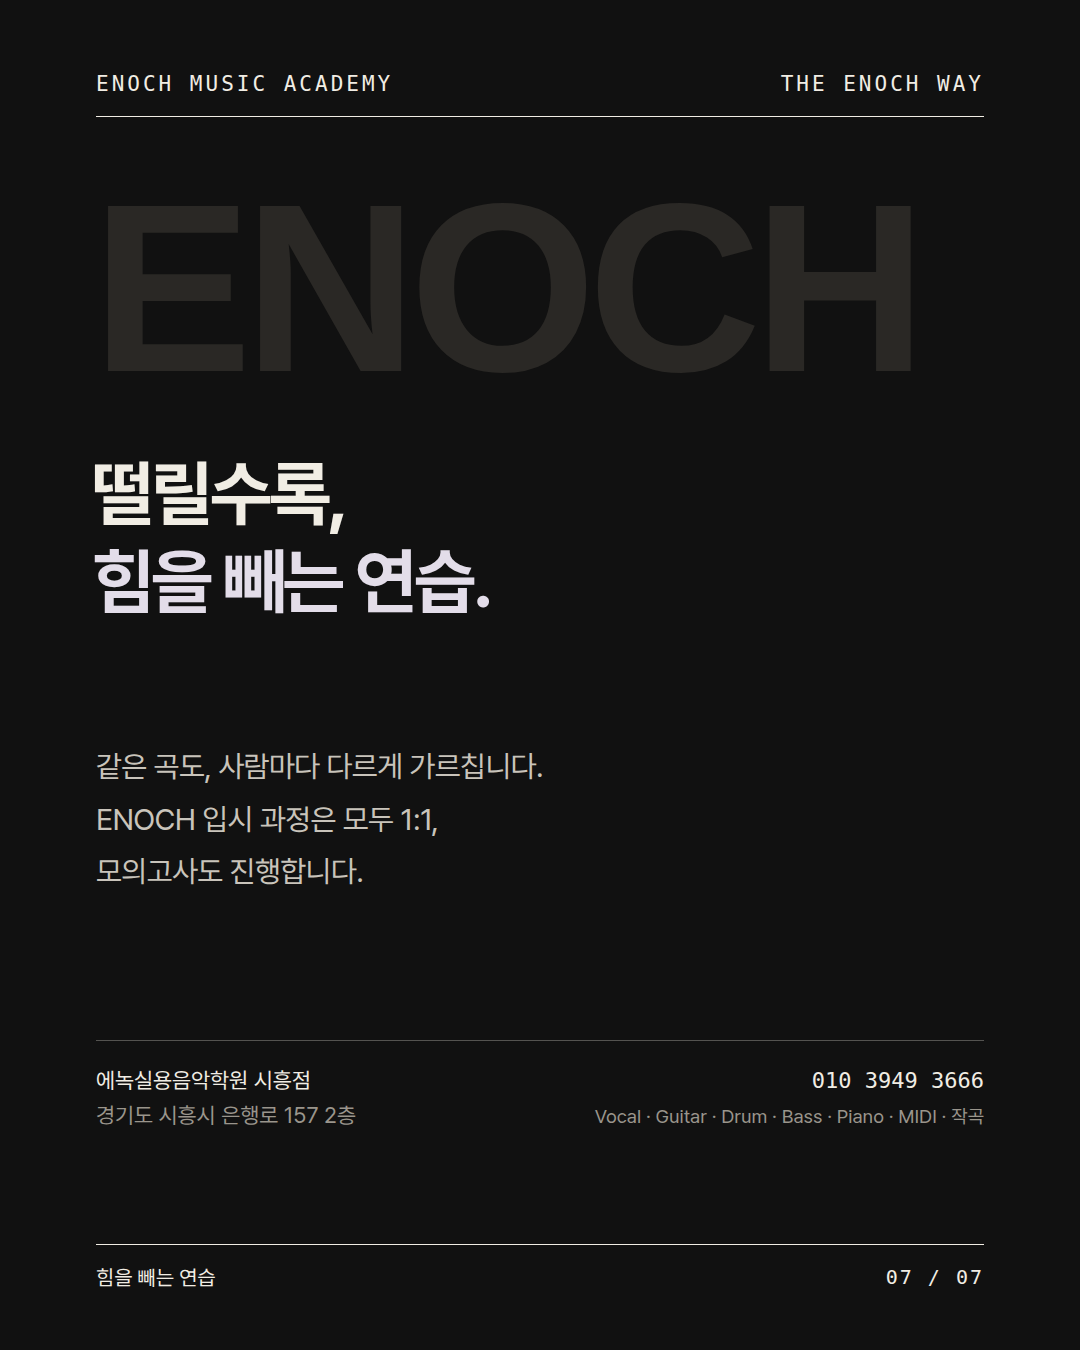
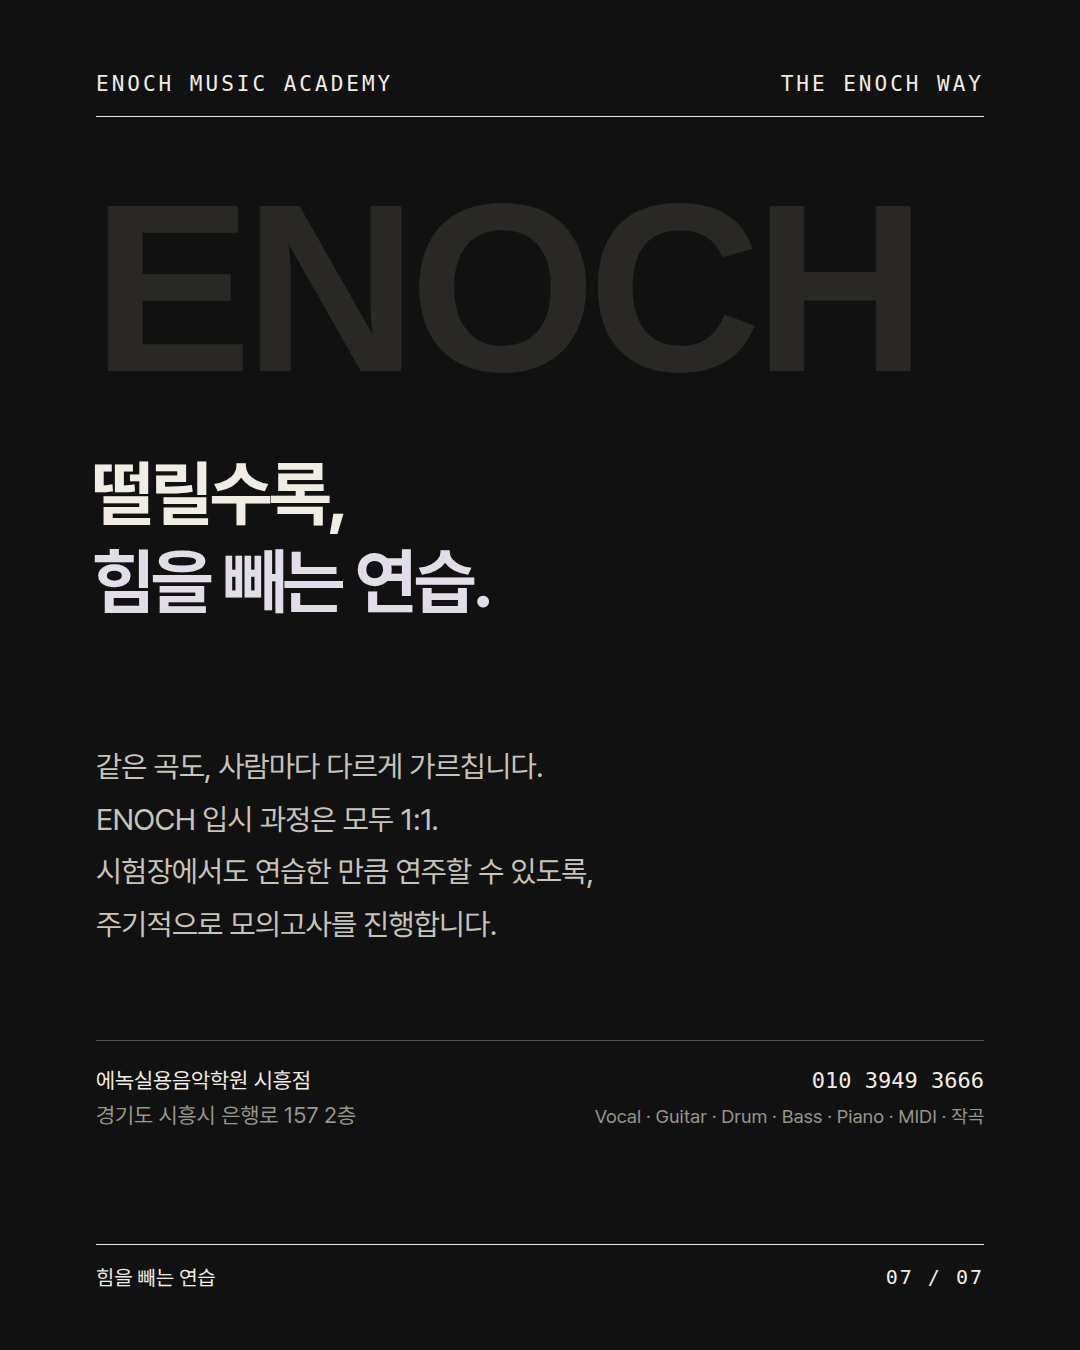
완전한 연주 편: 마무리 모의고사 문구를 목적+주기적 진행으로, CLAUDE.md 반영
Claude-Session: https://claude.ai/code/session_01HGbZvgMeYrbU7mY8bwfjyb

Changed region(s): [[0.0917, 0.6222, 0.55, 0.7156]]

diff --git a/output/책_완전한연주_1단계/deck.html b/output/책_완전한연주_1단계/deck.html
@@ -73,6 +73,6 @@
 <div class="ft"><span>힘을 빼는 연습</span><span>06 / 07</span></div><div class="src">책 사진: ENOCH 촬영 · 『완전한 연주』 케니 워너 지음, 이혜주 옮김, 현익출판.</div></section><section class="s dark" id="b7"><div class="hd"><span>ENOCH MUSIC ACADEMY</span><span>THE ENOCH WAY</span></div>
 <div style="position:absolute;left:92px;top:150px;font-family:'Helvetica Neue',Arial,sans-serif;font-weight:700;font-size:240px;letter-spacing:-8px;color:#2A2825">ENOCH</div>
 <div class="h" style="position:absolute;left:92px;top:450px">떨릴수록,<br><span style="color:var(--li)">힘을 빼는 연습.</span></div>
-<div class="p" style="position:absolute;left:96px;right:96px;top:740px">같은 곡도, 사람마다 다르게 가르칩니다.<br>ENOCH 입시 과정은 모두 1:1,<br>모의고사도 진행합니다.</div>
+<div class="p" style="position:absolute;left:96px;right:96px;top:740px">같은 곡도, 사람마다 다르게 가르칩니다.<br>ENOCH 입시 과정은 모두 1:1.<br>시험장에서도 연습한 만큼 연주할 수 있도록,<br>주기적으로 모의고사를 진행합니다.</div>
 <div style="position:absolute;left:96px;right:96px;top:1040px;padding-top:22px;border-top:1px solid rgba(241,237,228,.3);display:flex;justify-content:space-between;font-size:22px;line-height:1.6"><span>에녹실용음악학원 시흥점<br><span style="color:#9A958C">경기도 시흥시 은행로 157 2층</span></span><span style="text-align:right;font-family:var(--mono)">010 3949 3666<br><span style="color:#9A958C;font-family:P,sans-serif;font-size:19px">Vocal · Guitar · Drum · Bass · Piano · MIDI · 작곡</span></span></div>
 <div class="ft"><span>힘을 빼는 연습</span><span>07 / 07</span></div></section></body></html>

diff --git a/output/책_완전한연주_1단계/gen.py b/output/책_완전한연주_1단계/gen.py
@@ -104,7 +104,7 @@ S.append(f"""<section class="s" id="b6">{HD("FROM THE BOOK")}
 S.append(f"""<section class="s dark" id="b7">{HD("THE ENOCH WAY")}
 <div style="position:absolute;left:92px;top:150px;font-family:'Helvetica Neue',Arial,sans-serif;font-weight:700;font-size:240px;letter-spacing:-8px;color:#2A2825">ENOCH</div>
 <div class="h" style="position:absolute;left:92px;top:450px">떨릴수록,<br><span style="color:var(--li)">힘을 빼는 연습.</span></div>
-<div class="p" style="position:absolute;left:96px;right:96px;top:740px">같은 곡도, 사람마다 다르게 가르칩니다.<br>ENOCH 입시 과정은 모두 1:1,<br>모의고사도 진행합니다.</div>
+<div class="p" style="position:absolute;left:96px;right:96px;top:740px">같은 곡도, 사람마다 다르게 가르칩니다.<br>ENOCH 입시 과정은 모두 1:1.<br>시험장에서도 연습한 만큼 연주할 수 있도록,<br>주기적으로 모의고사를 진행합니다.</div>
 <div style="position:absolute;left:96px;right:96px;top:1040px;padding-top:22px;border-top:1px solid rgba(241,237,228,.3);display:flex;justify-content:space-between;font-size:22px;line-height:1.6"><span>에녹실용음악학원 시흥점<br><span style="color:#9A958C">경기도 시흥시 은행로 157 2층</span></span><span style="text-align:right;font-family:var(--mono)">010 3949 3666<br><span style="color:#9A958C;font-family:P,sans-serif;font-size:19px">Vocal · Guitar · Drum · Bass · Piano · MIDI · 작곡</span></span></div>
 {FT(7)}</section>""")
 

diff --git a/CLAUDE.md b/CLAUDE.md
@@ -16,7 +16,7 @@
 - 오시는 길: 대야역 도보 10–15분, 성원아파트 정류장 앞 (1층: 역전우동 · 오피스문구점)
 - 과목: Vocal · Guitar · Drum · Bass · Piano · MIDI · 작곡, 1:1 레슨
 - 과정: 입시 · 취미 · 성인 · 전문 (모든 과정 1:1 레슨)
-  - 입시 과정은 모의고사를 진행한다 (2026-10-12 확인). 횟수·방식은 확인 전이라 쓰지 않는다.
+  - 입시 과정은 주기적으로 모의고사를 진행한다 (2026-10-12 확인, "주기적" 2026-10-13 원장님 문구). 원장님 승인 문구: "시험장에서도 연습한 만큼 연주할 수 있도록, 주기적으로 모의고사를 진행합니다." 구체적 횟수·방식은 확인 전이라 쓰지 않는다.
 - 규모: 100평 이상, 강사 20명 이상, 취미/입시 캠퍼스 분리 예정
   - 평수와 레슨실·연습실 개수는 콘텐츠·캡션에 쓰지 않는다 (공개하지 않음, 2026-10-01 원장님 결정).
 - 연습실: 수강생은 운영시간 안에 연습실을 자유롭게 쓸 수 있다 (2026-10-04 원장님 문구: "운영시간 내 자유로운 연습실 이용이 가능합니다").

diff --git a/output/책_완전한연주_1단계/caption.md b/output/책_완전한연주_1단계/caption.md
@@ -11,7 +11,7 @@
 
 이 방법들은 재즈 피아니스트 케니 워너의 책 『완전한 연주』 4장 '단계적 연습'의 1단계에서 가져왔습니다.
 
-ENOCH 입시 과정은 모두 1:1이고, 모의고사도 진행합니다.
+ENOCH 입시 과정은 모두 1:1입니다. 시험장에서도 연습한 만큼 연주할 수 있도록, 주기적으로 모의고사를 진행합니다.
 
 에녹실용음악학원 시흥점
 경기도 시흥시 은행로 157 2층 · 010 3949 3666
@@ -27,4 +27,4 @@ ENOCH 입시 과정은 모두 1:1이고, 모의고사도 진행합니다.
 4. Tip 02 "머리부터 발끝까지, 힘 빼기" 피아노·보컬 예와 인용(188쪽).
 5. 검정 장 Tip 03 "잘해야 한다는 생각, 잠깐 내려놓기" 인용(185쪽).
 6. 책 표지 사진과 "이 이야기가 나온 책" 『완전한 연주』, 인용(181쪽).
-7. 검정 장 "떨릴수록, 힘을 빼는 연습." 원칙 2, 입시 1:1과 모의고사, 주소·전화.
+7. 검정 장 "떨릴수록, 힘을 빼는 연습." 원칙 2, 입시 1:1, 주기적인 모의고사, 주소·전화.
